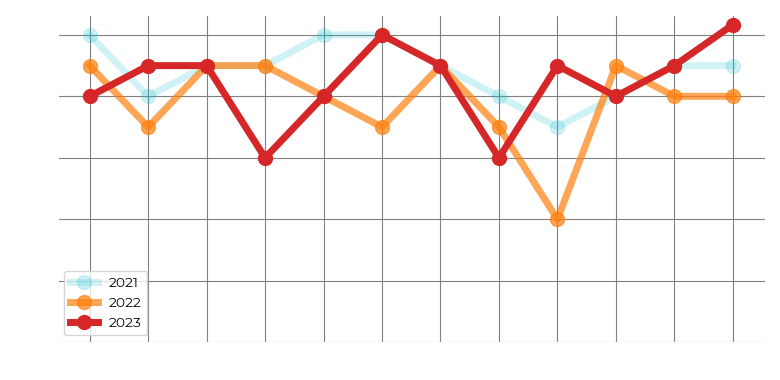
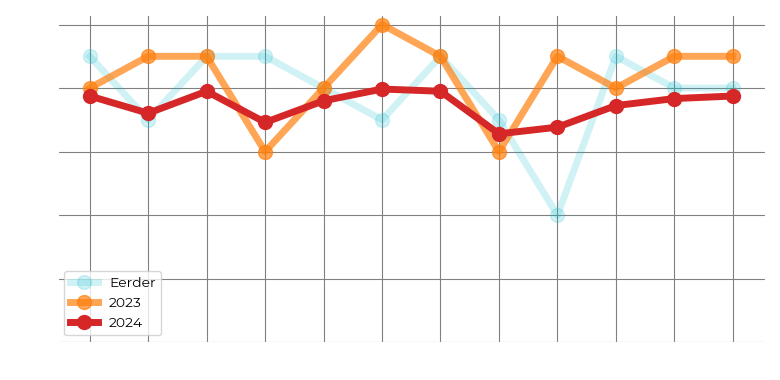
Klaarmaken voor 2024

Changed region(s): [[0.0923, 0.0289, 0.9846, 0.6079], [0.1231, 0.7237, 0.9846, 0.8974]]

diff --git a/energieverbruik.py b/energieverbruik.py
@@ -34,18 +34,18 @@ class Month(IntEnum):
 #
 # CONSTANTEN
 #
-HUIDIG_JAAR = 2023
+HUIDIG_JAAR = 2024
 VORIG_JAAR = HUIDIG_JAAR - 1
 
 #
 # INVOEREN GEGEVENS HUIDIGE JAAR
 #
-MAAND = Month.dec
-DAG_VAN_MAAND = 15
+MAAND = Month.jan
+DAG_VAN_MAAND = 12
 DAGEN_IN_MAAND = 31
-VERBRUIK_GAS = 124
-VERBRUIK_ELEKTRICITEIT = 68
-VERBRUIK_WATER = 4
+VERBRUIK_GAS = 101
+VERBRUIK_ELEKTRICITEIT = 48
+VERBRUIK_WATER = 3
 PRIJS_GAS = 1.39006
 PRIJS_ELEKTRICITEIT = 0.39802
 PRIJS_WATER = 1.021
@@ -57,10 +57,17 @@ df = pd.read_csv('energiedata.csv')
 
 totVerbrGasVrgJr = df['vrbr_gas_VrgJr']
 totVerbrGasVrgJr2 = df['vrbr_gas_VrgJr2']
+totVerbrGasVrgJr3 = df['vrbr_gas_VrgJr3']
 totVerbrEleVrgJr = df['vrbr_ele_VrgJr']
 totVerbrEleVrgJr2 = df['vrbr_ele_VrgJr2']
+totVerbrEleVrgJr3 = df['vrbr_ele_VrgJr3']
 totVerbrWatVrgJr = df['vrbr_wat_VrgJr']
 totVerbrWatVrgJr2 = df['vrbr_wat_VrgJr2']
+totVerbrWatVrgJr3 = df['vrbr_wat_VrgJr3']
+
+totVerbrGasVrgJr2 = (totVerbrGasVrgJr2 + totVerbrGasVrgJr3) / 2
+totVerbrEleVrgJr2 = (totVerbrEleVrgJr2 + totVerbrEleVrgJr3) / 2
+totVerbrWatVrgJr2 = (totVerbrWatVrgJr2 + totVerbrWatVrgJr3) / 2
 
 #
 # BEREKENINGEN GAS
@@ -73,9 +80,10 @@ for i in range(5, 9):
     vastGasMnd = sumZomerverbruik / 4
     vastGasJr = vastGasMnd*12
 
-# Bereken gemiddelde graaddagen per maand voor afgelopen vier jaar
+# Bereken gemiddelde graaddagen per maand voor afgelopen vijf jaar
 gemGraaddagen = ((df['grddg_2019'] + df['grddg_2020']
-                  + df['grddg_2021'] + df['grddg_2022']) / 4).round(2)
+                  + df['grddg_2021'] + df['grddg_2022'] + df['grddg_2023'])
+                 / 5).round(2)
 
 # Bereken percentage verbruik per maand voor graaddagen
 sumGraaddagen = 0
@@ -94,14 +102,14 @@ corrVerbrGasVrgJr = totVerbrGasVrgJr - vastGasMnd
 sumVerbrGasVrgJr_corr = 0
 for i in corrVerbrGasVrgJr:
     sumVerbrGasVrgJr_corr += i
-#percVerbrGasVrgJr_corr = (corrVerbrGasVrgJr / sumVerbrGasVrgJr_corr)
+    #percVerbrGasVrgJr_corr = (corrVerbrGasVrgJr / sumVerbrGasVrgJr_corr)
 percVerbrGasVrgJr = (totVerbrGasVrgJr / sumVerbrGasVrgJr_corr)
 
 corrVerbrGasVrgJr2 = totVerbrGasVrgJr2 - vastGasMnd
 sumVerbrGasVrgJr2_corr = 0
 for i in corrVerbrGasVrgJr2:
     sumVerbrGasVrgJr2_corr += i
-#percVerbrGasVrgJr2_corr = (corrVerbrGasVrgJr2 / sumVerbrGasVrgJr2_corr)
+    #percVerbrGasVrgJr2_corr = (corrVerbrGasVrgJr2 / sumVerbrGasVrgJr2_corr)
 percVerbrGasVrgJr2 = (corrVerbrGasVrgJr2 / sumVerbrGasVrgJr2_corr)
 
 #
@@ -115,12 +123,12 @@ gemEle = df['gem_ele']
 sumVerbrEleVrgJr = 0
 for i in totVerbrEleVrgJr:
     sumVerbrEleVrgJr += i
-    percVerbrEleVrgJr = (totVerbrEleVrgJr / sumVerbrEleVrgJr)
+percVerbrEleVrgJr = (totVerbrEleVrgJr / sumVerbrEleVrgJr)
 
 sumVerbrEleVrgJr2 = 0
 for i in totVerbrEleVrgJr2:
     sumVerbrEleVrgJr2 += i
-    percVerbrEleVrgJr2 = (totVerbrEleVrgJr2 / sumVerbrEleVrgJr)
+percVerbrEleVrgJr2 = (totVerbrEleVrgJr2 / sumVerbrEleVrgJr)
 
 #
 # BEREKENINGEN WATER
@@ -132,25 +140,25 @@ gemWat = df['gem_wat']
 sumVerbrWatVrgJr = 0
 for i in totVerbrWatVrgJr:
     sumVerbrWatVrgJr += i
-    percVerbrWatVrgJr = (totVerbrWatVrgJr / sumVerbrWatVrgJr)
+percVerbrWatVrgJr = (totVerbrWatVrgJr / sumVerbrWatVrgJr)
     
 sumVerbrWatVrgJr2 = 0
 for i in totVerbrWatVrgJr2:
     sumVerbrWatVrgJr2 += i
-    percVerbrWatVrgJr2 = (totVerbrWatVrgJr2 / sumVerbrWatVrgJr2)
+percVerbrWatVrgJr2 = (totVerbrWatVrgJr2 / sumVerbrWatVrgJr2)
 
 #
 # BEREKENINGEN SCHATTING VERBRUIK
 #
 
-# Combineer graaddagen en verbruik vorig jaar als basis voor verwachting
+# Combineer graaddagen en verbruik vorige jaren als basis voor verwachting
 # verbruik komende jaar
 combiVerbrGas = ((percGraaddagen + percVerbrGasVrgJr + percVerbrGasVrgJr2) / 3)
 
-# Combineer gemiddeld elektriciteit en verbruik VrgJr als basis voor verwachting
+# Combineer gemiddeld elektriciteit en verbruik vorige jaren als basis voor verwachting
 combiVerbrEle = ((gemEle + percVerbrEleVrgJr + percVerbrEleVrgJr2) / 3)
 
-# Combineer gemiddeld waterverbruik VrgJr als basis voor verwachting
+# Combineer gemiddeld waterverbruik en verbruik vorige jaren als basis voor verwachting
 combiVerbrWat = ((gemWat + percVerbrWatVrgJr + percVerbrWatVrgJr2) / 3)
 
 percMnd = DAG_VAN_MAAND / DAGEN_IN_MAAND
@@ -168,6 +176,9 @@ schatVerbrWatHdgJr = [0] * 12
 verbrGasHdgJr = 0
 verbrEleHdgJr = 0
 verbrWatHdgJr = 0
+sumSchatGas = 0
+sumSchatEle = 0
+sumSchatWat = 0
 
 # Als alleen eerste maand bekend is
 if MAAND == Month.jan:
@@ -177,6 +188,10 @@ if MAAND == Month.jan:
     schatVerbrEleHdgJr = (combiVerbrEle * verbrEleHdgJr).round(2)
     verbrWatHdgJr = verbrWatMnd / combiVerbrWat[0]
     schatVerbrWatHdgJr = (combiVerbrWat * verbrWatHdgJr).round(2)
+    for i in range (0, 12):
+        sumSchatGas += schatVerbrGasHdgJr[i]
+        sumSchatEle += schatVerbrEleHdgJr[i]
+        sumSchatWat += schatVerbrWatHdgJr[i]
 
 # Als een of meerdere maanden afgerond zijn
 else:
@@ -193,9 +208,9 @@ else:
         schatVerbrWatHdgJr[i] = df['vrbr_wat_HdgJr'][i]
         verbrWatHdgJr += schatVerbrWatHdgJr[i]
         watMndnNJr += (schatVerbrWatHdgJr[i] / combiVerbrWat[i])
-    gasMndnNJr /= (MAAND-1 + 1)
-    eleMndnNJr /= (MAAND-1 + 1)
-    watMndnNJr /= (MAAND-1 + 1)
+        gasMndnNJr /= (MAAND-1 + 1)
+        eleMndnNJr /= (MAAND-1 + 1)
+        watMndnNJr /= (MAAND-1 + 1)
     for i in range(MAAND, 12):
         if i == MAAND:
             schatVerbrGasHdgJr[i] = ((verbrGasMnd / combiVerbrGas[MAAND])
@@ -206,19 +221,19 @@ else:
                                      * combiVerbrWat[i]).round(2)
         else:
             schatVerbrGasHdgJr[i] = (((((verbrGasMnd / combiVerbrGas[MAAND])
-                                       + gasMndnNJr)/2) + vastGasMnd) * combiVerbrGas[i]).round(2)
+                                        + gasMndnNJr)/2) + vastGasMnd) * combiVerbrGas[i]).round(2)
             schatVerbrEleHdgJr[i] = ((((verbrEleMnd / combiVerbrEle[MAAND])
                                        + eleMndnNJr)/2) * combiVerbrEle[i]).round(2)
             schatVerbrWatHdgJr[i] = ((((verbrWatMnd / combiVerbrWat[MAAND])
                                        + watMndnNJr)/2)* combiVerbrWat[i]).round(2)
-        verbrGasHdgJr += schatVerbrGasHdgJr[i]
-        verbrEleHdgJr += schatVerbrEleHdgJr[i]
-        verbrWatHdgJr += schatVerbrWatHdgJr[i]
+            verbrGasHdgJr += schatVerbrGasHdgJr[i]
+            verbrEleHdgJr += schatVerbrEleHdgJr[i]
+            verbrWatHdgJr += schatVerbrWatHdgJr[i]
 
 # Schatting totaal verbruik
-schatTotGas = verbrGasHdgJr
-schatTotEle = verbrEleHdgJr
-schatTotWat = verbrWatHdgJr
+schatTotGas = sumSchatGas
+schatTotEle = sumSchatEle
+schatTotWat = sumSchatWat
 
 # Bereken verschil vorig jaar : huidig jaar
 verschGas = (schatTotGas - sumVerbrGasVrgJr)
@@ -332,12 +347,12 @@ rcParams['font.sans-serif'] = ['Montserrat']
 def GrafiekGas():
     # Grafiek gasverbruik
     plotGas.figure()
-    plotGas.plot(maanden, df['vrbr_gas_VrgJr2'], color='tab:cyan', label="2021",
+    plotGas.plot(maanden, df['vrbr_gas_VrgJr2'], color='tab:cyan', label="Eerder",
                  linewidth=5, alpha=0.2, marker='o', ms=10)
-    plotGas.plot(maanden, df['vrbr_gas_VrgJr'], color='tab:orange', label="2022",
+    plotGas.plot(maanden, df['vrbr_gas_VrgJr'], color='tab:orange', label="2023",
                  linewidth=5, alpha=0.7, marker='o', ms=10)
     plotGas.plot(maanden, schatVerbrGasHdgJr, color='tab:red',
-                 label="2023", linewidth=5, marker='o', ms=10)
+                 label="2024", linewidth=5, marker='o', ms=10)
     #plotGas.title("Gas", color='White')
     #plotGas.xlabel("maand", color='White')
     plotGas.ylabel("verbruik (m3)", color='White')
@@ -353,12 +368,12 @@ def GrafiekGas():
 def GrafiekElektriciteit():
     # Grafiek elektriciteitsverbruik
     plotEle.figure()
-    plotEle.plot(maanden, df['vrbr_ele_VrgJr2'], color='tab:cyan', label="2021",
+    plotEle.plot(maanden, df['vrbr_ele_VrgJr2'], color='tab:cyan', label="Eerder",
                  linewidth=5, alpha=0.2, marker='o', ms=10)
-    plotEle.plot(maanden, df['vrbr_ele_VrgJr'], color='tab:orange', label="2022",
+    plotEle.plot(maanden, df['vrbr_ele_VrgJr'], color='tab:orange', label="2023",
                  linewidth=5, alpha=0.7, marker='o', ms=10)
     plotEle.plot(maanden, schatVerbrEleHdgJr,
-                 color='tab:red', label="2023", linewidth=5, marker='o', ms=10)
+                 color='tab:red', label="2024", linewidth=5, marker='o', ms=10)
     #plotEle.title("Elektriciteit", color='White')
     #plotEle.xlabel("maand", color='White')
     plotEle.ylabel("verbruik (kWh)", color='White')
@@ -374,12 +389,12 @@ def GrafiekElektriciteit():
 def GrafiekWater():
     # Grafiek waterverbruik
     plotWat.figure()
-    plotWat.plot(maanden, df['vrbr_wat_VrgJr2'], color='tab:cyan', label="2021",
+    plotWat.plot(maanden, df['vrbr_wat_VrgJr2'], color='tab:cyan', label="Eerder",
                  linewidth=5, alpha=0.2, marker='o', ms=10)
-    plotWat.plot(maanden, df['vrbr_wat_VrgJr'], color='tab:orange', label="2022",
+    plotWat.plot(maanden, df['vrbr_wat_VrgJr'], color='tab:orange', label="2023",
                  linewidth=5, alpha=0.7, marker='o', ms=10)
     plotWat.plot(maanden, schatVerbrWatHdgJr, color='tab:red',
-                 label="2023", linewidth=5, marker='o', ms=10)
+                 label="2024", linewidth=5, marker='o', ms=10)
     #plotWat.title("Water", color='White')
     #plotWat.xlabel("maand", color='White')
     plotWat.ylabel("verbruik (m3)", color='White')
@@ -423,8 +438,8 @@ def schrijfCsvStats():
                     + str("%d" % schatVerbrWatHdgJr[i]) + ","
                     + str("%d" % totVerbrWatVrgJr[i]) + ","
                     + str("%d" % totVerbrWatVrgJr2[i]) + "\n")
-    f = open("energie-stats.csv", "w")
-    f.write(uitvoer)
-    f.close()
+        f = open("energie-stats.csv", "w")
+        f.write(uitvoer)
+        f.close()
 
 schrijfCsvStats()
